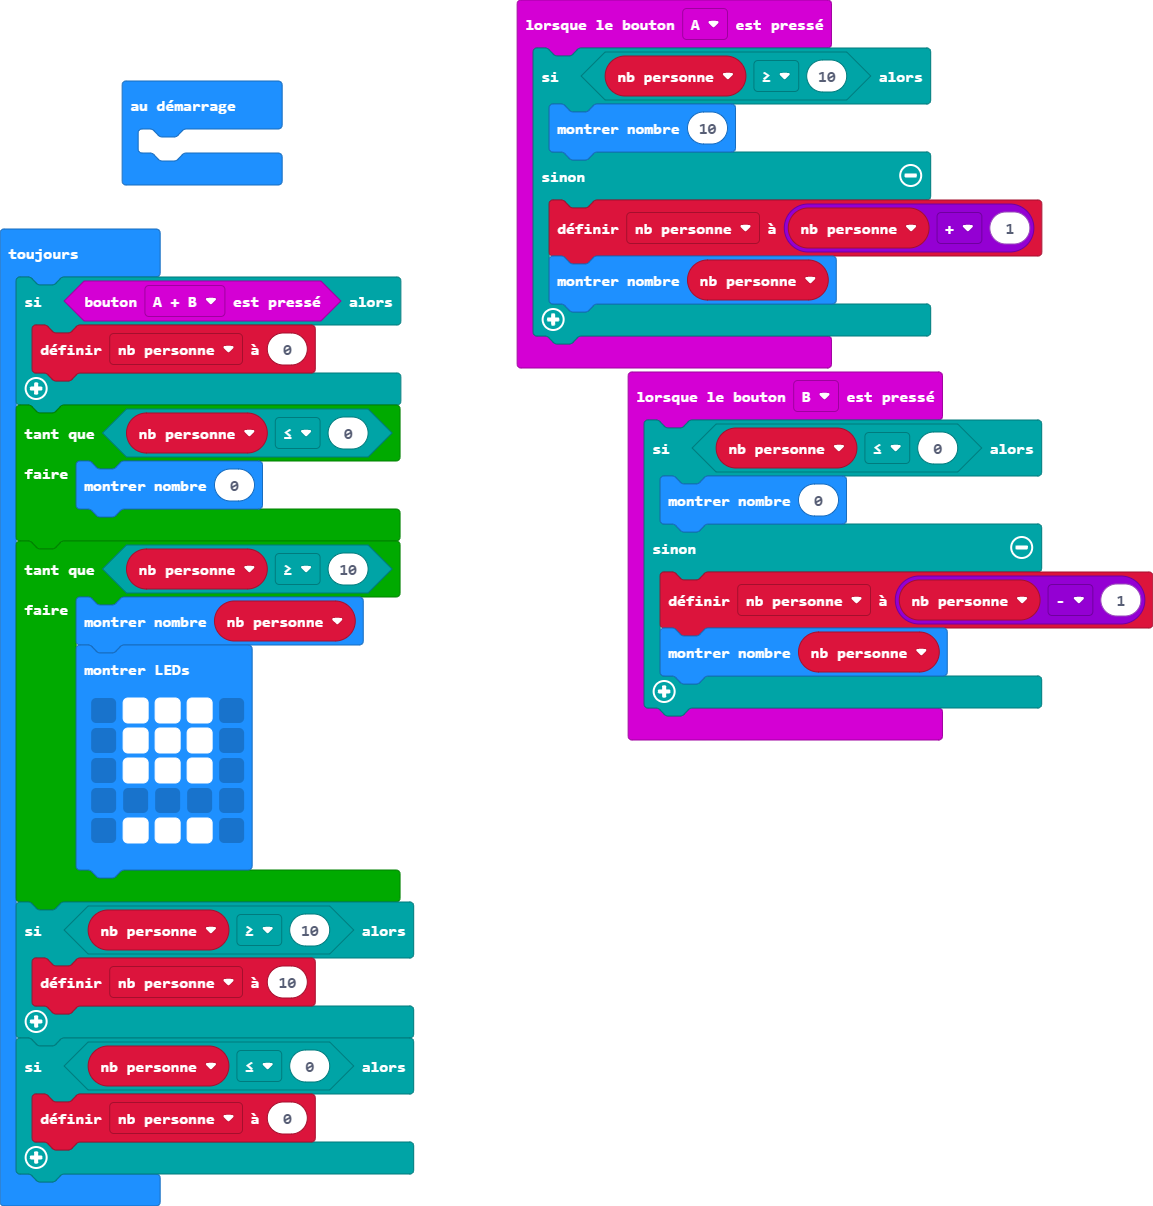
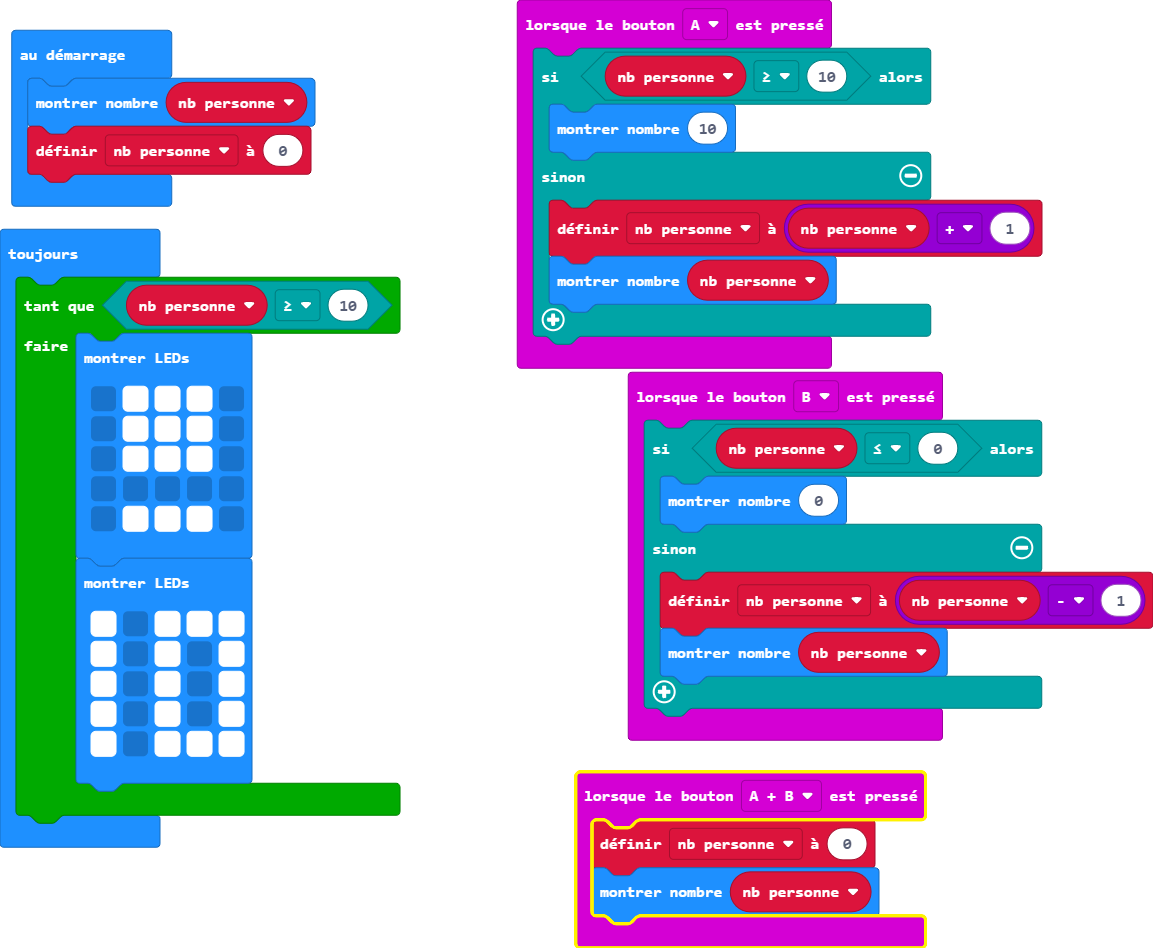
Mise à jour main.blocks, main.ts

diff --git a/main.ts b/main.ts
@@ -1,4 +1,3 @@
-let nb_personne = 0
 input.onButtonPressed(Button.A, function () {
     if (nb_personne >= 10) {
         basic.showNumber(10)
@@ -6,6 +5,10 @@ input.onButtonPressed(Button.A, function () {
         nb_personne = nb_personne + 1
         basic.showNumber(nb_personne)
     }
+})
+input.onButtonPressed(Button.AB, function () {
+    nb_personne = 0
+    basic.showNumber(nb_personne)
 })
 input.onButtonPressed(Button.B, function () {
     if (nb_personne <= 0) {
@@ -15,15 +18,11 @@ input.onButtonPressed(Button.B, function () {
         basic.showNumber(nb_personne)
     }
 })
+let nb_personne = 0
+basic.showNumber(nb_personne)
+nb_personne = 0
 basic.forever(function () {
-    if (input.buttonIsPressed(Button.AB)) {
-        nb_personne = 0
-    }
-    while (nb_personne <= 0) {
-        basic.showNumber(0)
-    }
     while (nb_personne >= 10) {
-        basic.showNumber(nb_personne)
         basic.showLeds(`
             . # # # .
             . # # # .
@@ -31,11 +30,12 @@ basic.forever(function () {
             . . . . .
             . # # # .
             `)
-    }
-    if (nb_personne >= 10) {
-        nb_personne = 10
-    }
-    if (nb_personne <= 0) {
-        nb_personne = 0
+        basic.showLeds(`
+            # . # # #
+            # . # . #
+            # . # . #
+            # . # . #
+            # . # # #
+            `)
     }
 })
